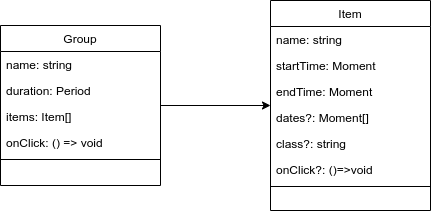
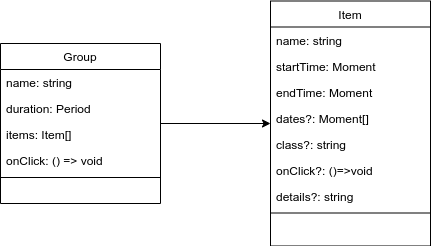
Amend the README.md

diff --git a/README.md b/README.md
@@ -114,8 +114,8 @@ If the values are changed the calendar will be redrawn. If a date is set, switch
 This is a grouping of several items.
 - _name_: The name of the group as displayed in the chart
 - _duration_: The calculated duration of the whole group. It is automatically calculated as the difference between the earliest start time and the latest end time of all items passed to the constructor.
-- _items_: The items belonging to the group
-- _onClick_: The optional action to execute if the group is clicked
+- _items_: The items belonging to the group.
+- _onClick_: The optional action to execute when the user clicks on the group.
 
 ### Item
 This represents a bar in the time chart.
@@ -123,7 +123,8 @@ This represents a bar in the time chart.
 - _startTime_: The start date of the item. This is represented in Momentjs
 - _endTime_: The end date of the item.
 - _class_: The optional css-class of the item.
-_ _onClick_: The optional action to take if the bar is clicked in the chart.
+- _onClick_: The optional action to take when the user clicks the item in the chart.
+- _details_: Additional information for the item. These are displayed when the mouse hovers over the item in the calendar.
  
 ##Known Issues
 
